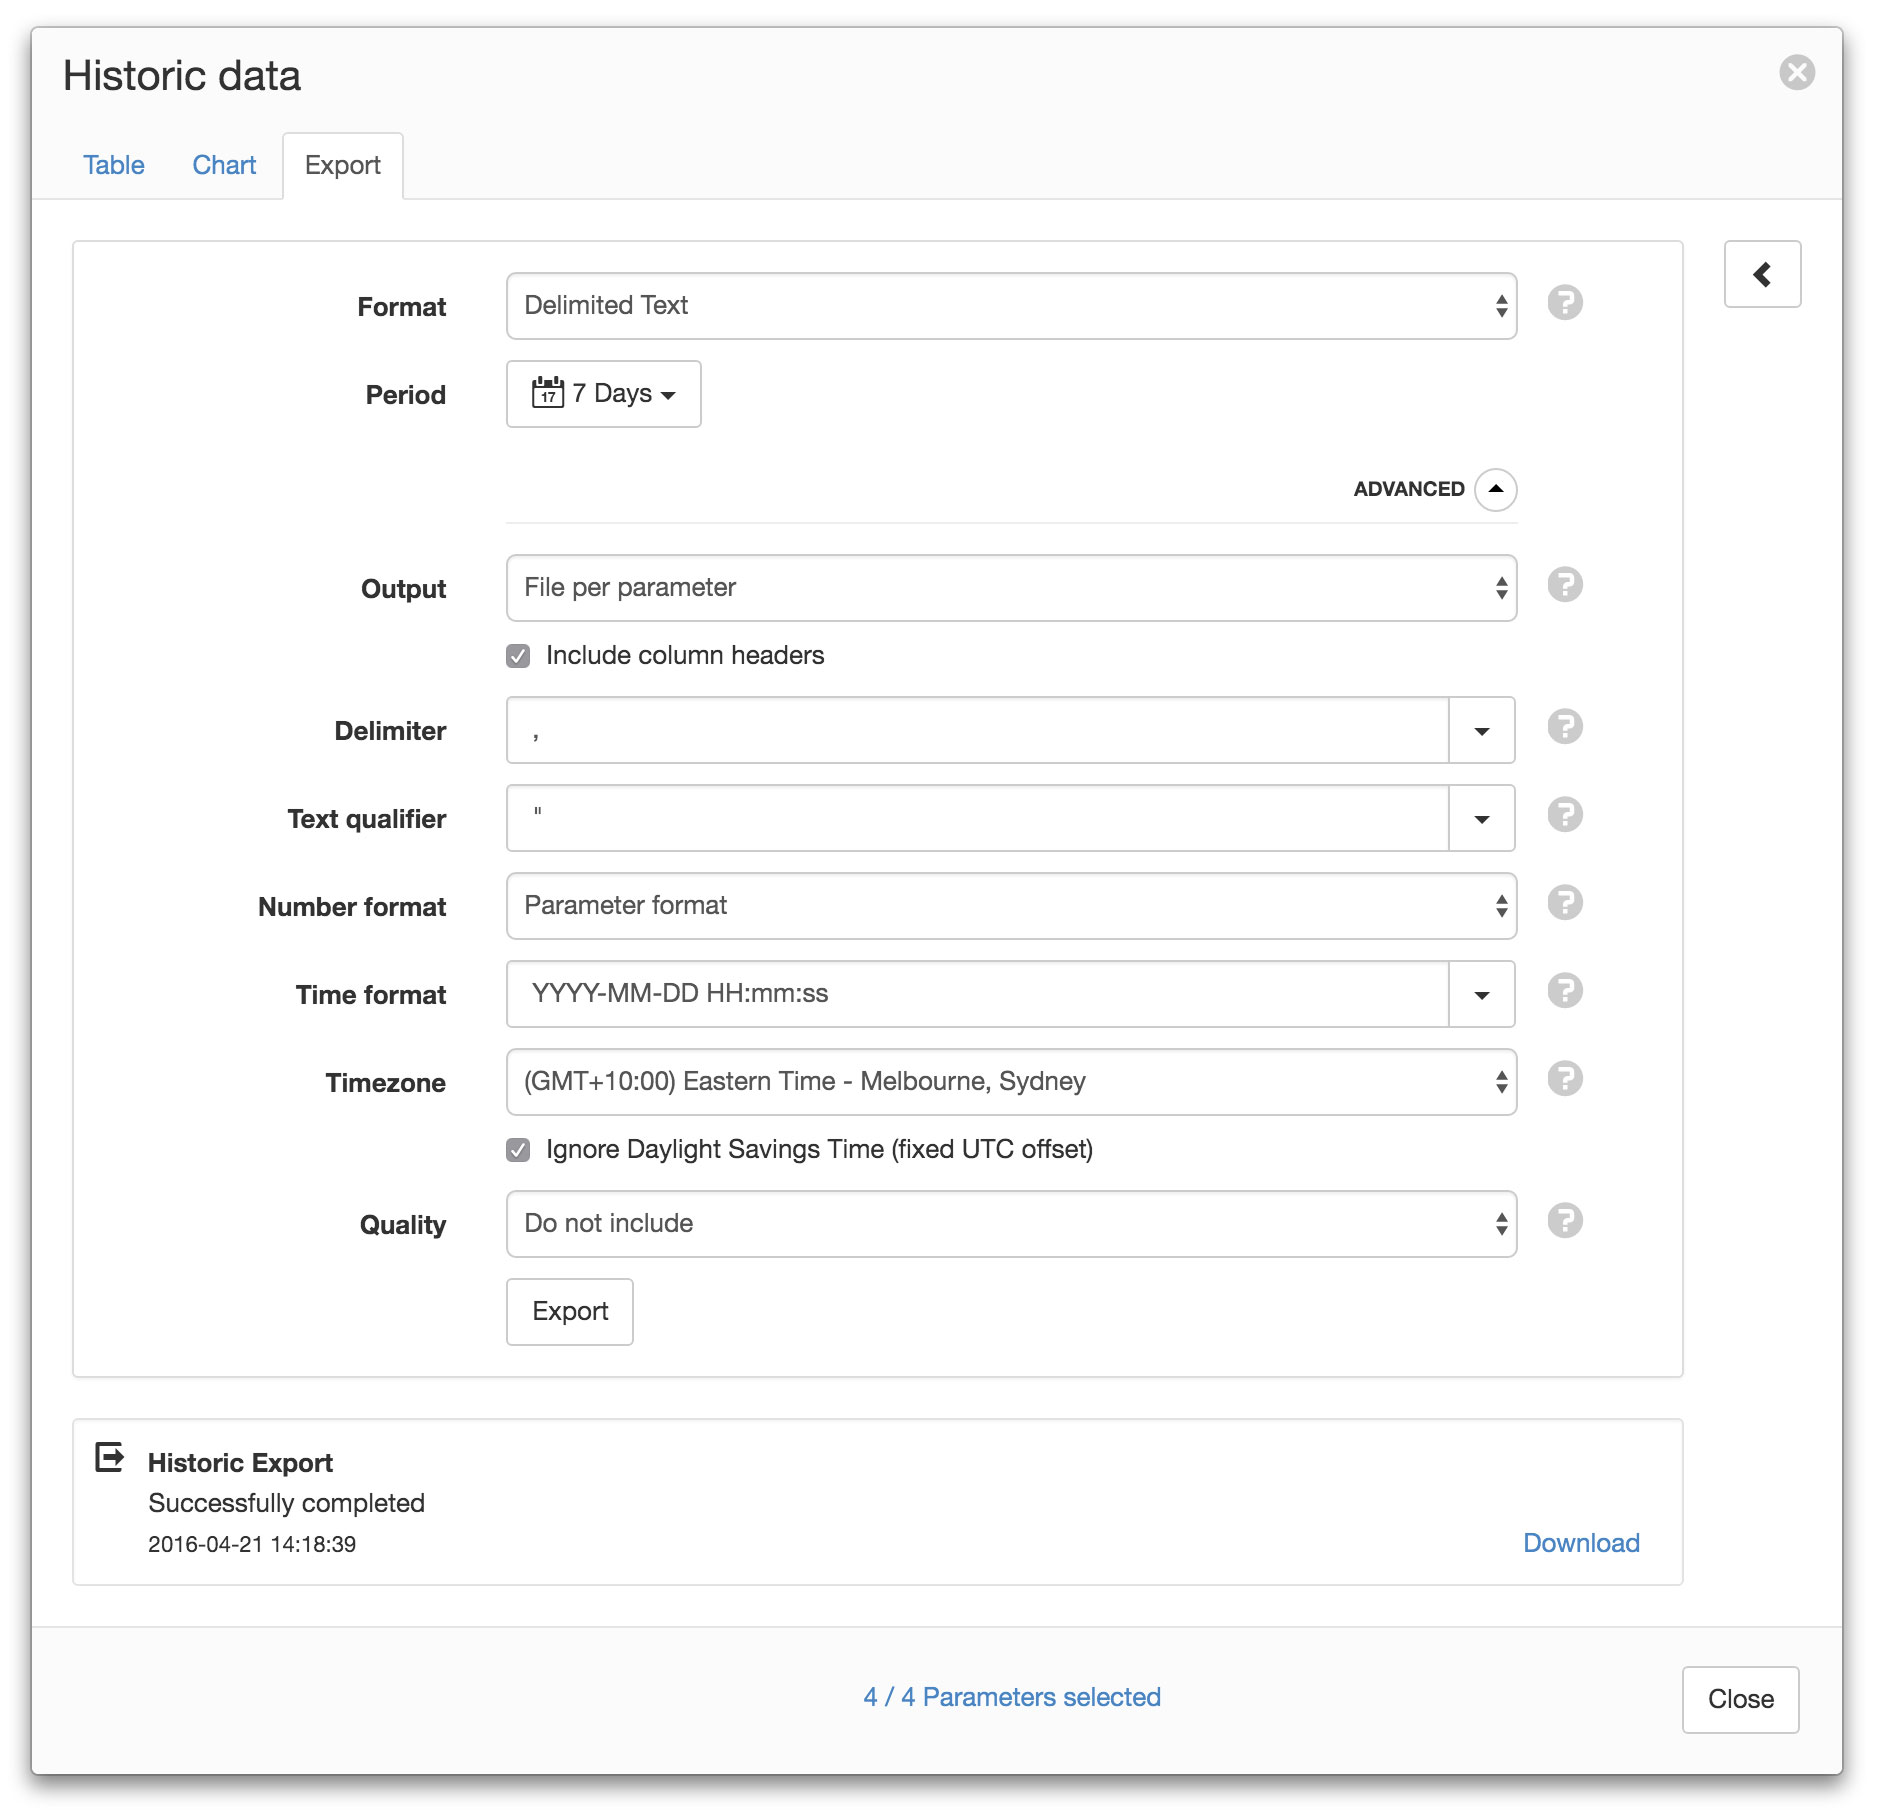
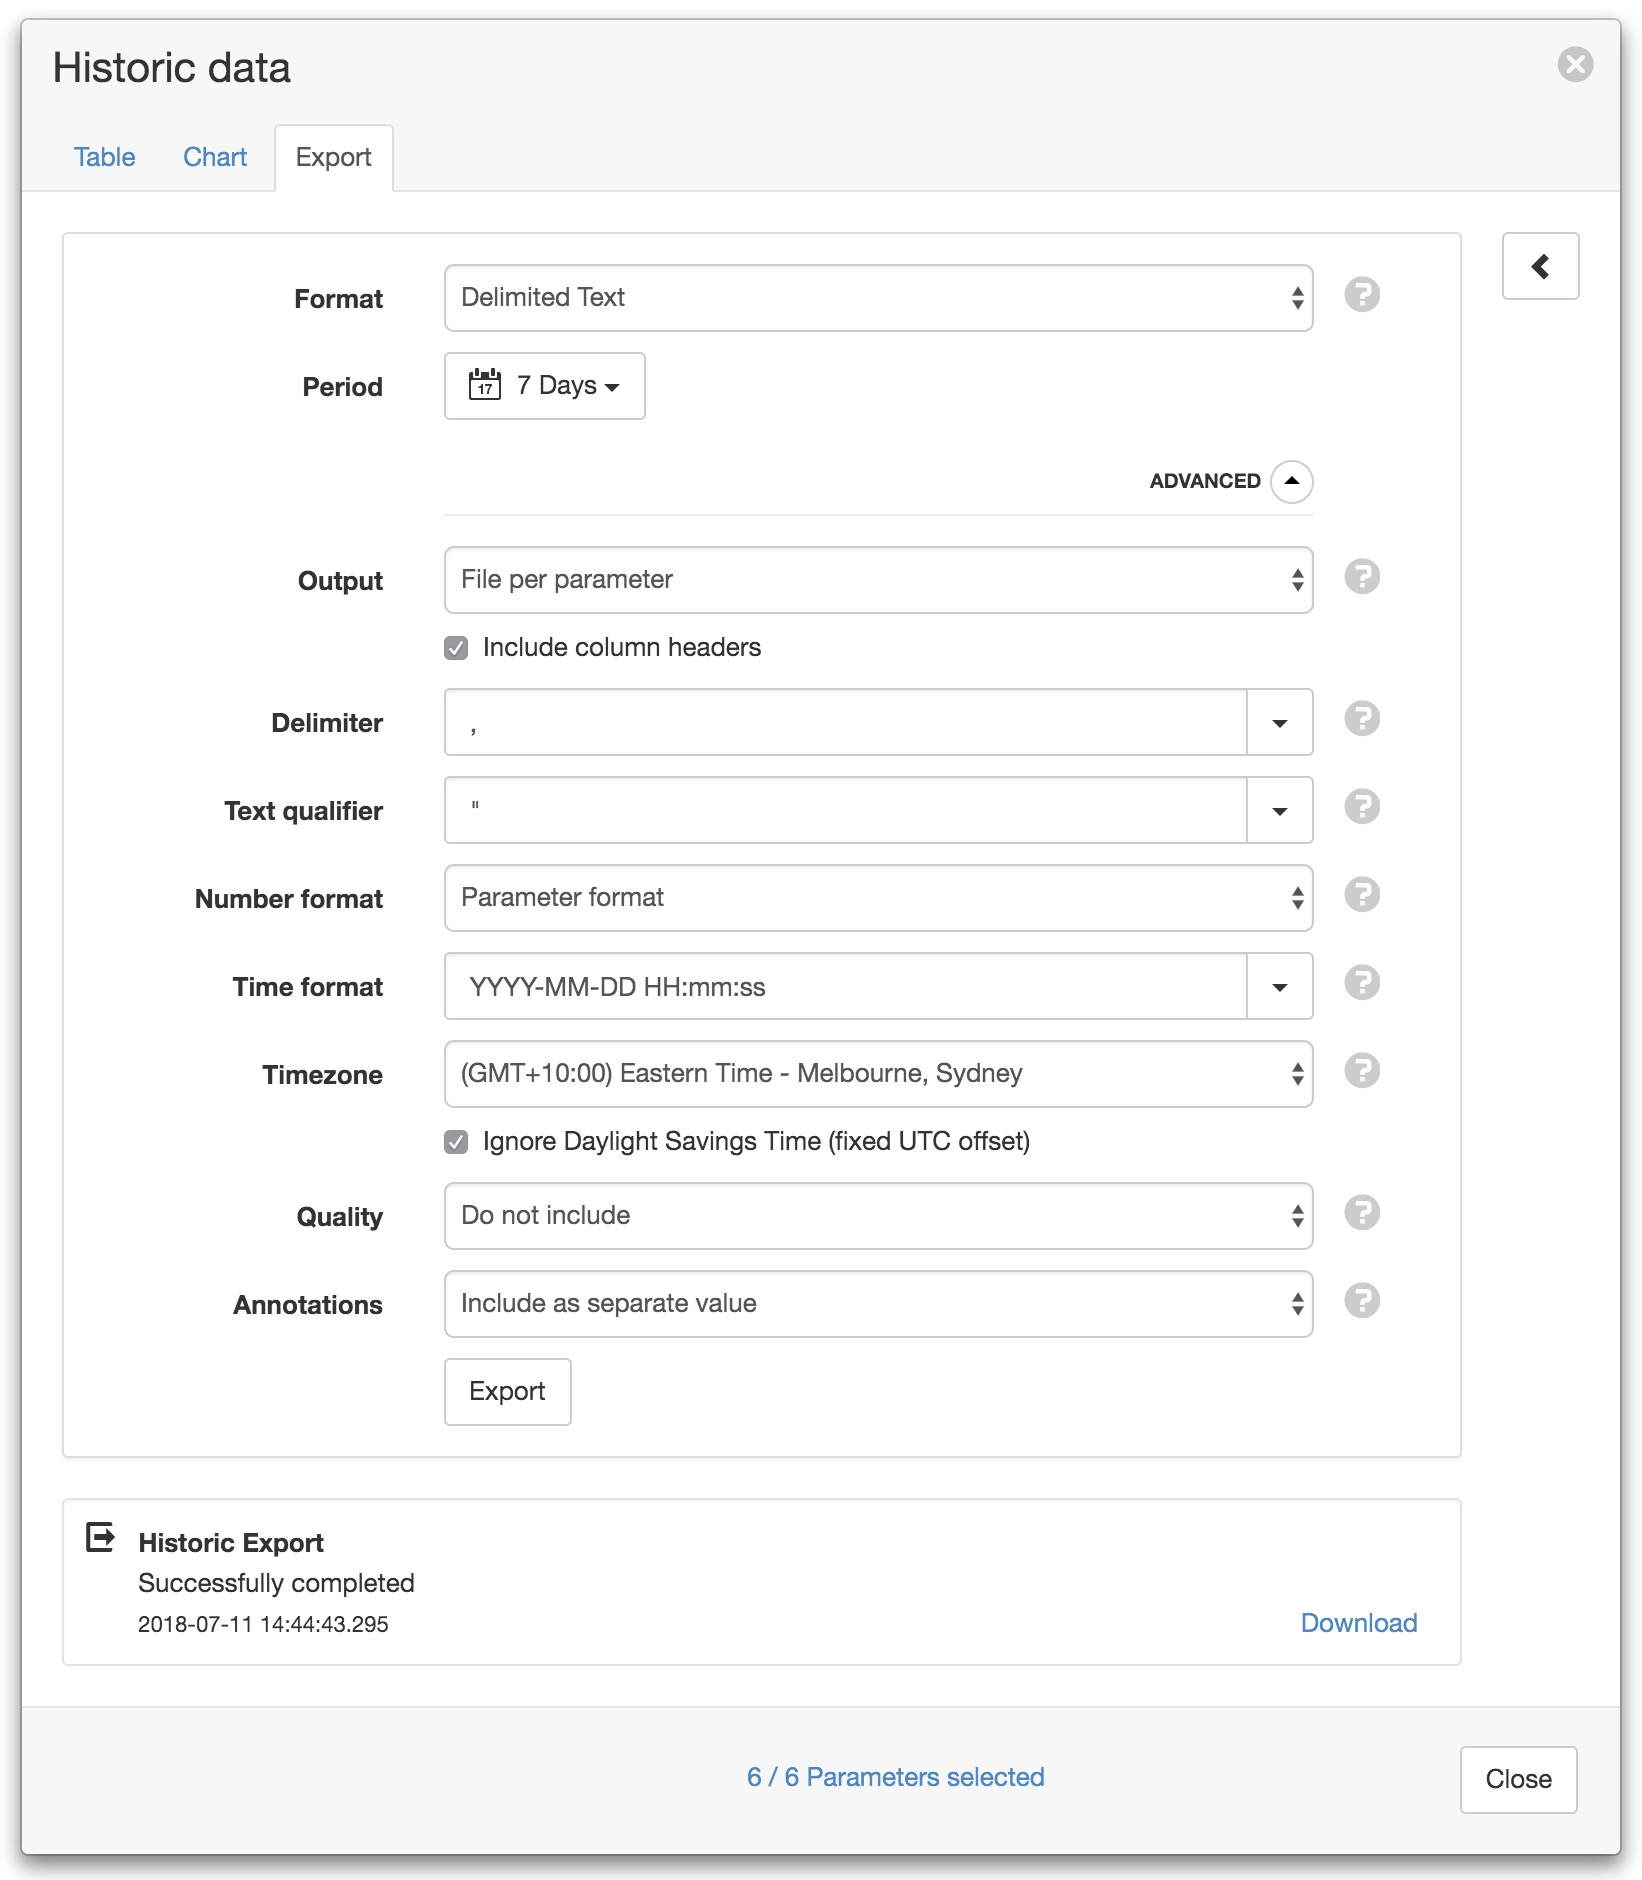
add 'annotations' option in historic export dialog

diff --git a/source/topics/historic_data/export/index.rst b/source/topics/historic_data/export/index.rst
@@ -93,9 +93,18 @@ Quality
 Quality delimiter
     Specify the :term:`delimiter` character to use for separating the value and quality code when *Include with value* is specified for the *Quality* export option.
 
+Annotations
+    Specify how annotations should be exported:
+
+    *Do not include*
+        Annotations are ignored.
+
+    *Include as separate value*
+        Annotations will be included as a separate column in the file.
+
 | 
 
-By default only the first 15 parameters will be selected for export. Use the *Parameter selection* panel accessible via the arrow on the right to refine your selection and change how the data should be exported, including any aggregate calculations to be applied.
+.. note:: By default only the first 15 parameters will be selected for export. Use the *Parameter selection* panel accessible via the arrow on the right to refine your selection and change how the data should be exported, including any aggregate calculations to be applied.
 
 .. raw:: latex
 
